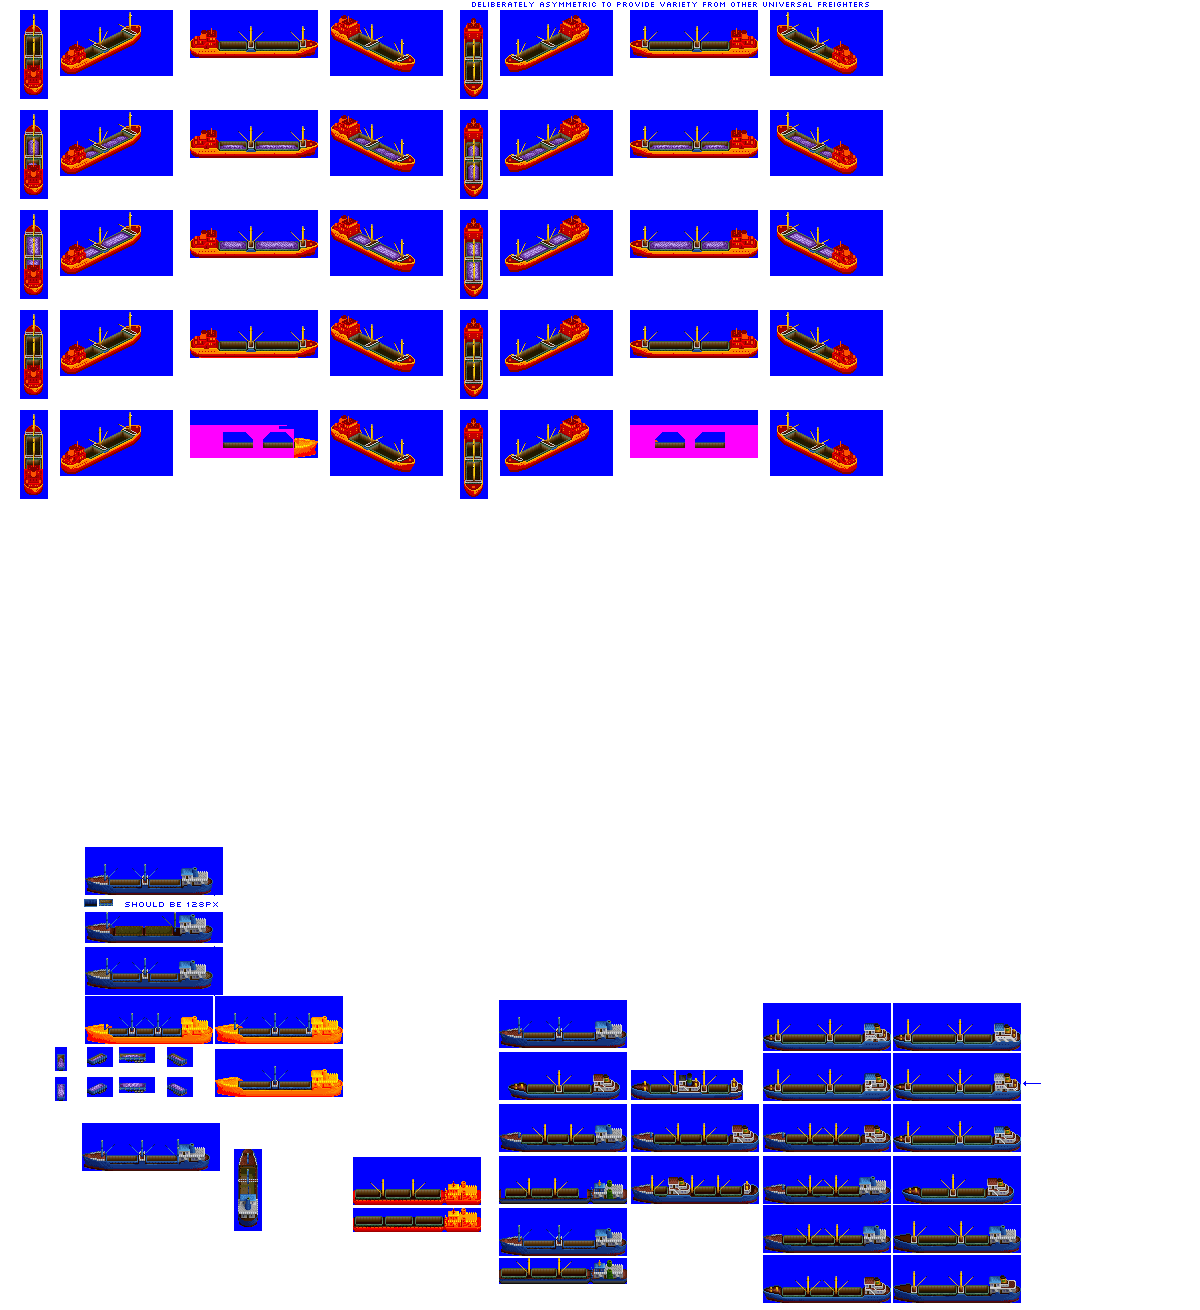
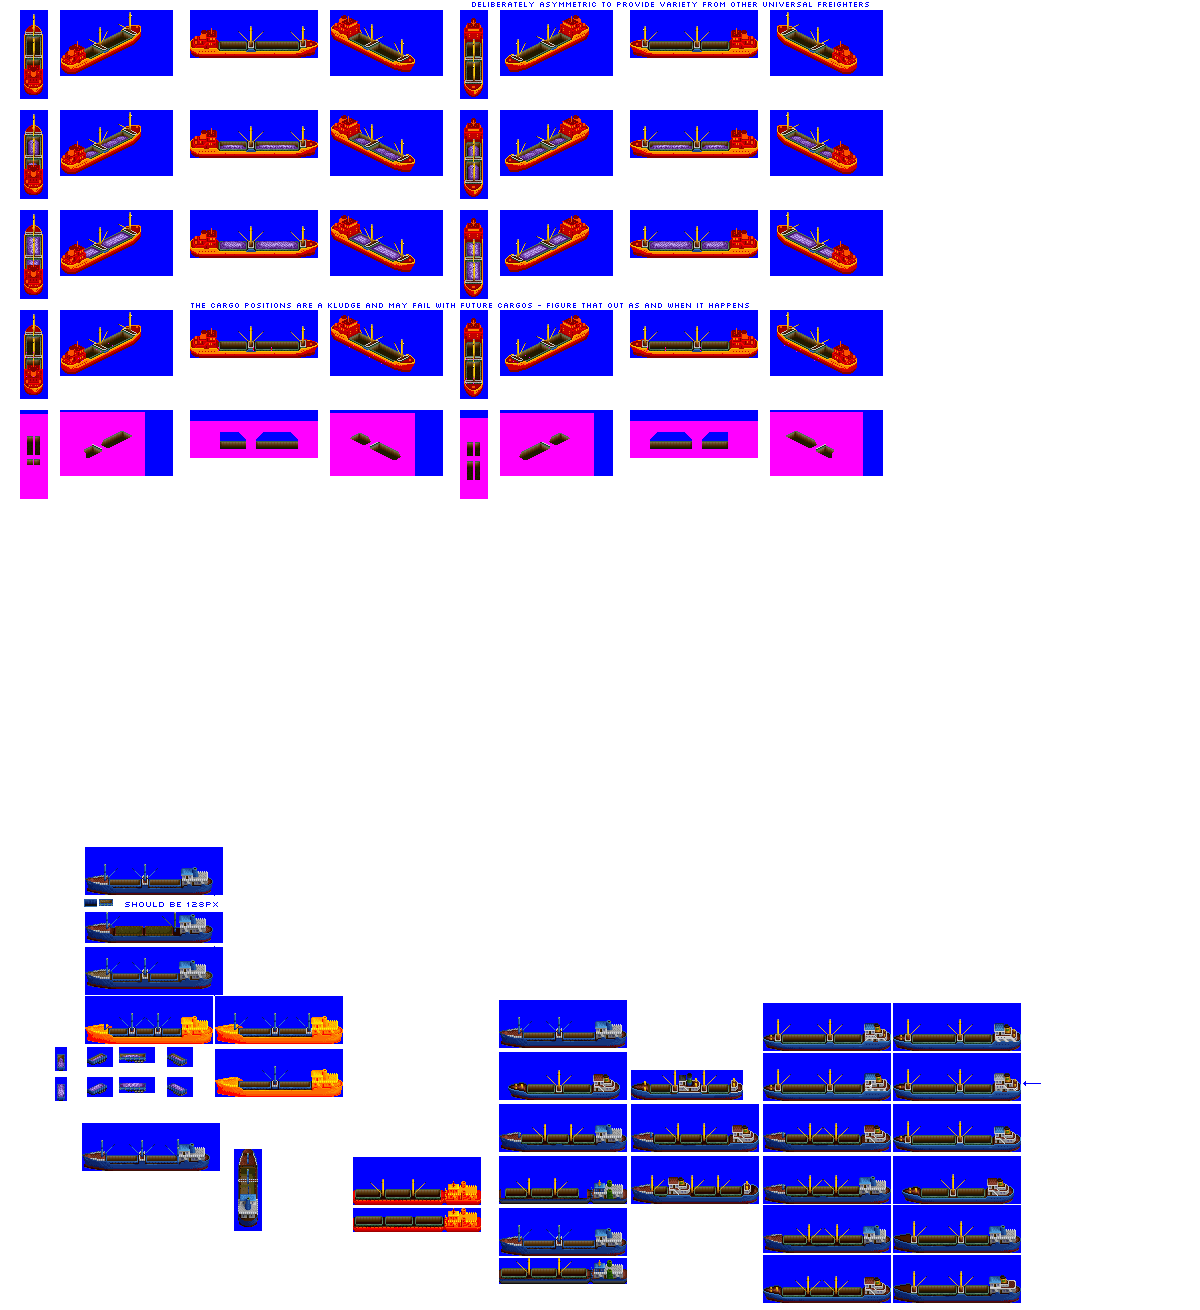
Change: sprites complete for Rotterdam Tanker (gen 3F), Longstone Freighter (gen 3F), Alligator Mini-bulker (gen 3F) git push

Changed region(s): [[0.185, 0.3053, 0.4933, 0.3969], [0.5242, 0.3053, 0.74, 0.3664], [0.0, 0.3053, 0.1233, 0.3969]]

diff --git a/src/vehicles/tanker_ships.py b/src/vehicles/tanker_ships.py
@@ -58,17 +58,6 @@ def main():
     )
 
     ship = TankerShip(
-        numeric_id=2,
-        name="Rotterdam",
-        gen=3,
-        subtype="F",
-        hull="ShipHouseRear",
-        str_type_info="COASTAL_TANKER",
-        effect_type="EFFECT_SPRITE_AIRCRAFT_BREAKDOWN_SMOKE",
-        sprites_complete=False,
-    )
-
-    ship = TankerShip(
         numeric_id=19,
         name="Gunfleet",
         gen=3,
@@ -76,6 +65,17 @@ def main():
         hull="ShipHouseRear",
         str_type_info="SMALL_TANKER_COASTAL_INLAND",
         effect_type="EFFECT_SPRITE_DIESEL",
+        sprites_complete=True,
+    )
+
+    ship = TankerShip(
+        numeric_id=2,
+        name="Rotterdam",
+        gen=3,
+        subtype="F",
+        hull="ShipHouseRear",
+        str_type_info="COASTAL_TANKER",
+        effect_type="EFFECT_SPRITE_AIRCRAFT_BREAKDOWN_SMOKE",
         sprites_complete=True,
     )
 

diff --git a/src/hulls.py b/src/hulls.py
@@ -163,7 +163,7 @@ class ShipHouseRear128px(Hull):
         self.hull_type = "ship"
         self.house_position = "rear"
         self.load_state_y_offsets = [("empty", -1), ("part_load", 1), ("full_load", 3)]
-        self.effects_positions = [(11, 0, 24)]
+        self.effects_positions = [(15, 0, 27)]
 
 
 class TempHouseNone32px(Hull):

diff --git a/src/vehicles/bulk_ships.py b/src/vehicles/bulk_ships.py
@@ -69,5 +69,5 @@ def main():
         subtype="F",
         hull="ShipHouseRear",
         effect_type="EFFECT_SPRITE_DIESEL",
-        sprites_complete=False, # needed wake sprites and smoke positions sorting - done yet?
+        sprites_complete=True,
     )

diff --git a/src/vehicles/freighter_ships.py b/src/vehicles/freighter_ships.py
@@ -83,6 +83,7 @@ def main():
         hull="ShipHouseRear",
         effect_type="EFFECT_SPRITE_DIESEL",
         cargo_length=8,
+        sprites_complete=True,
     )
 
 
